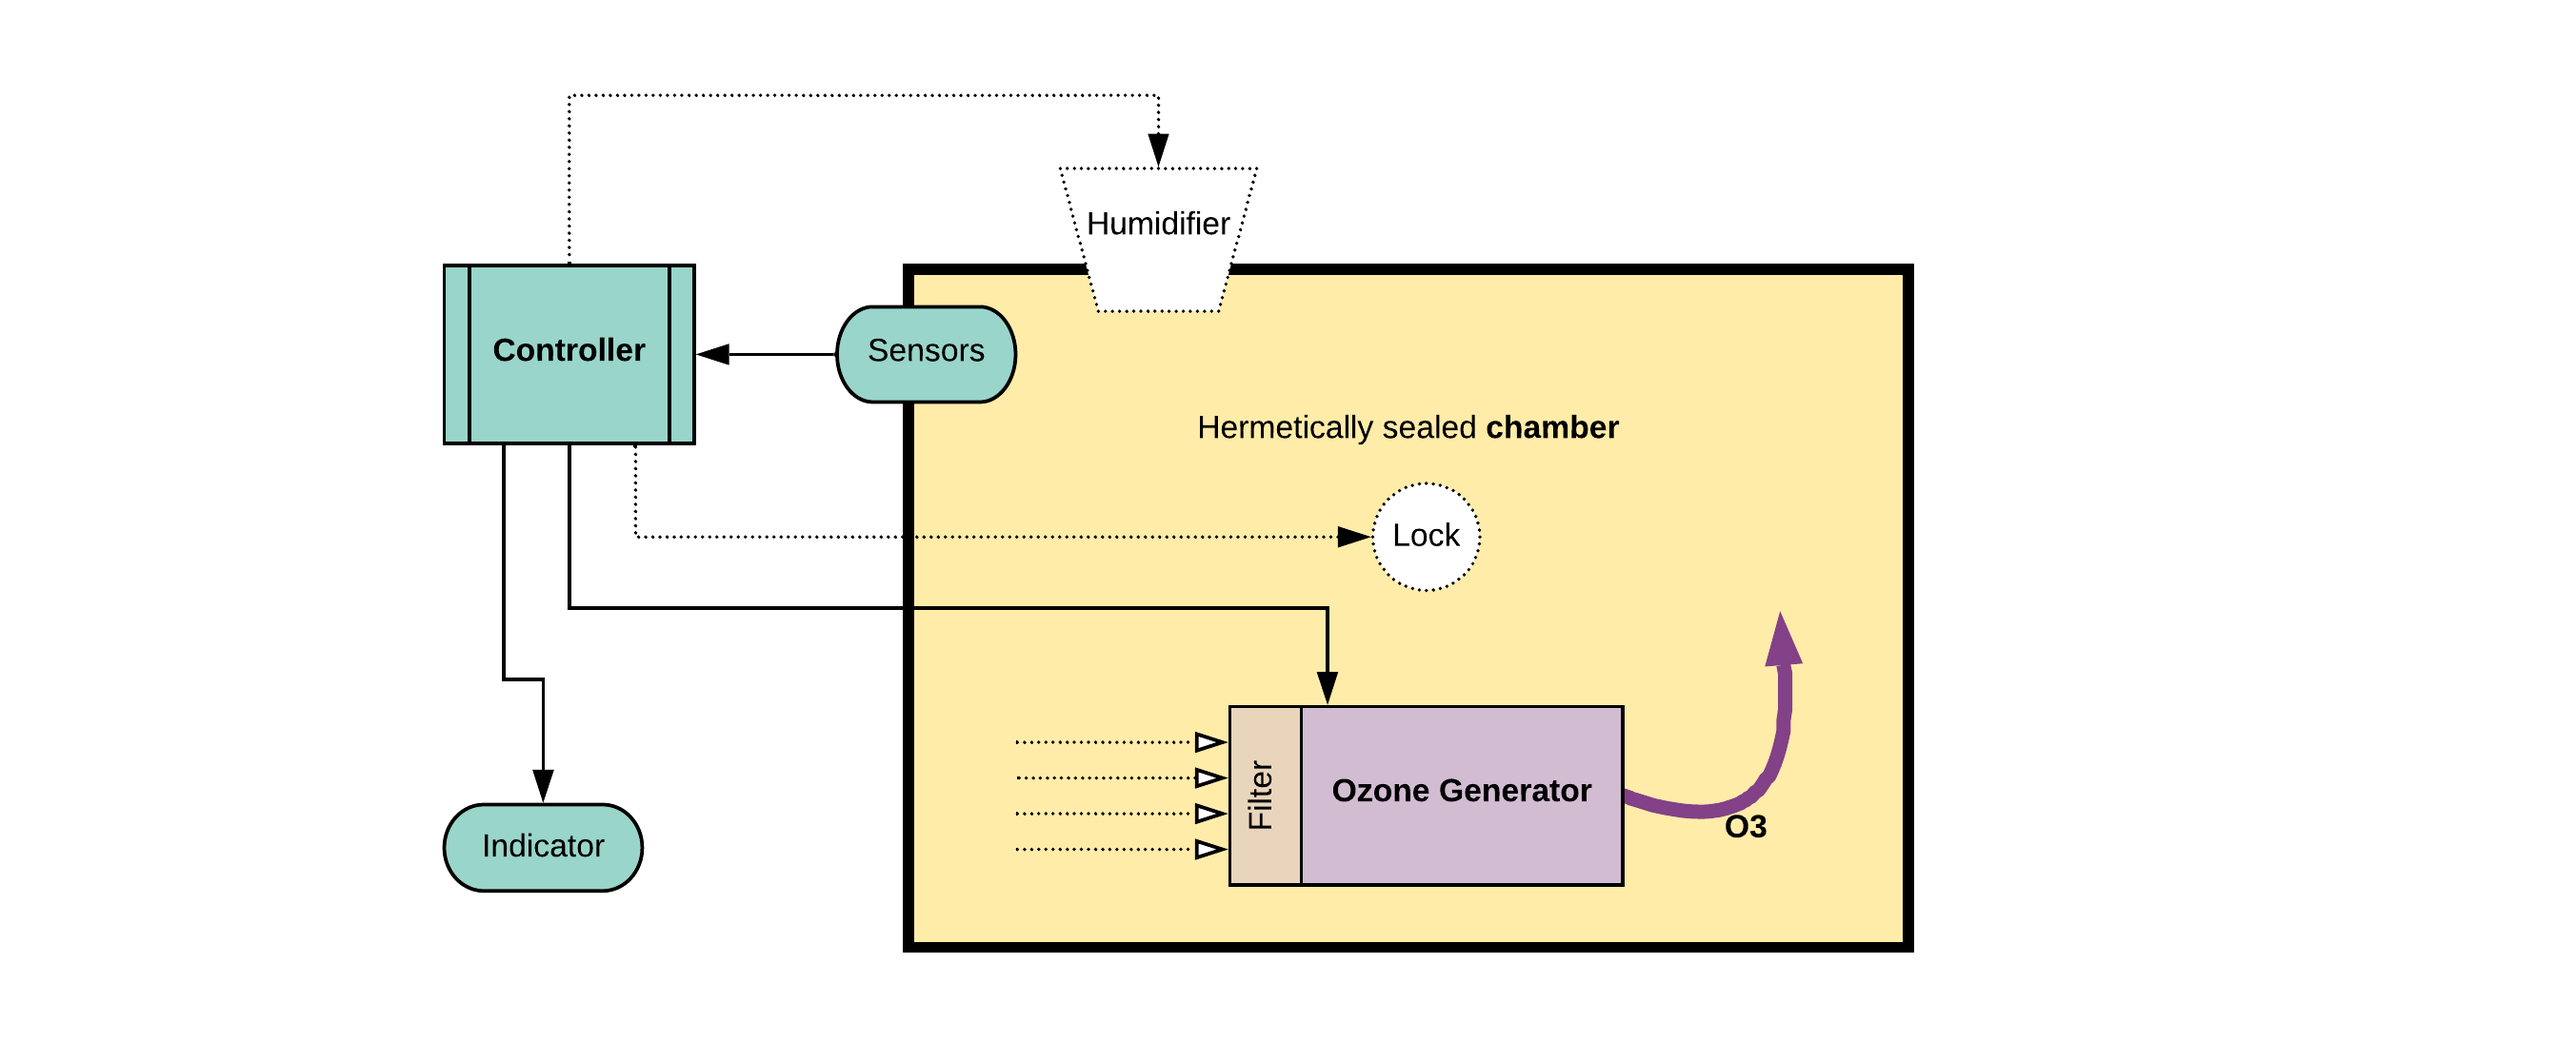
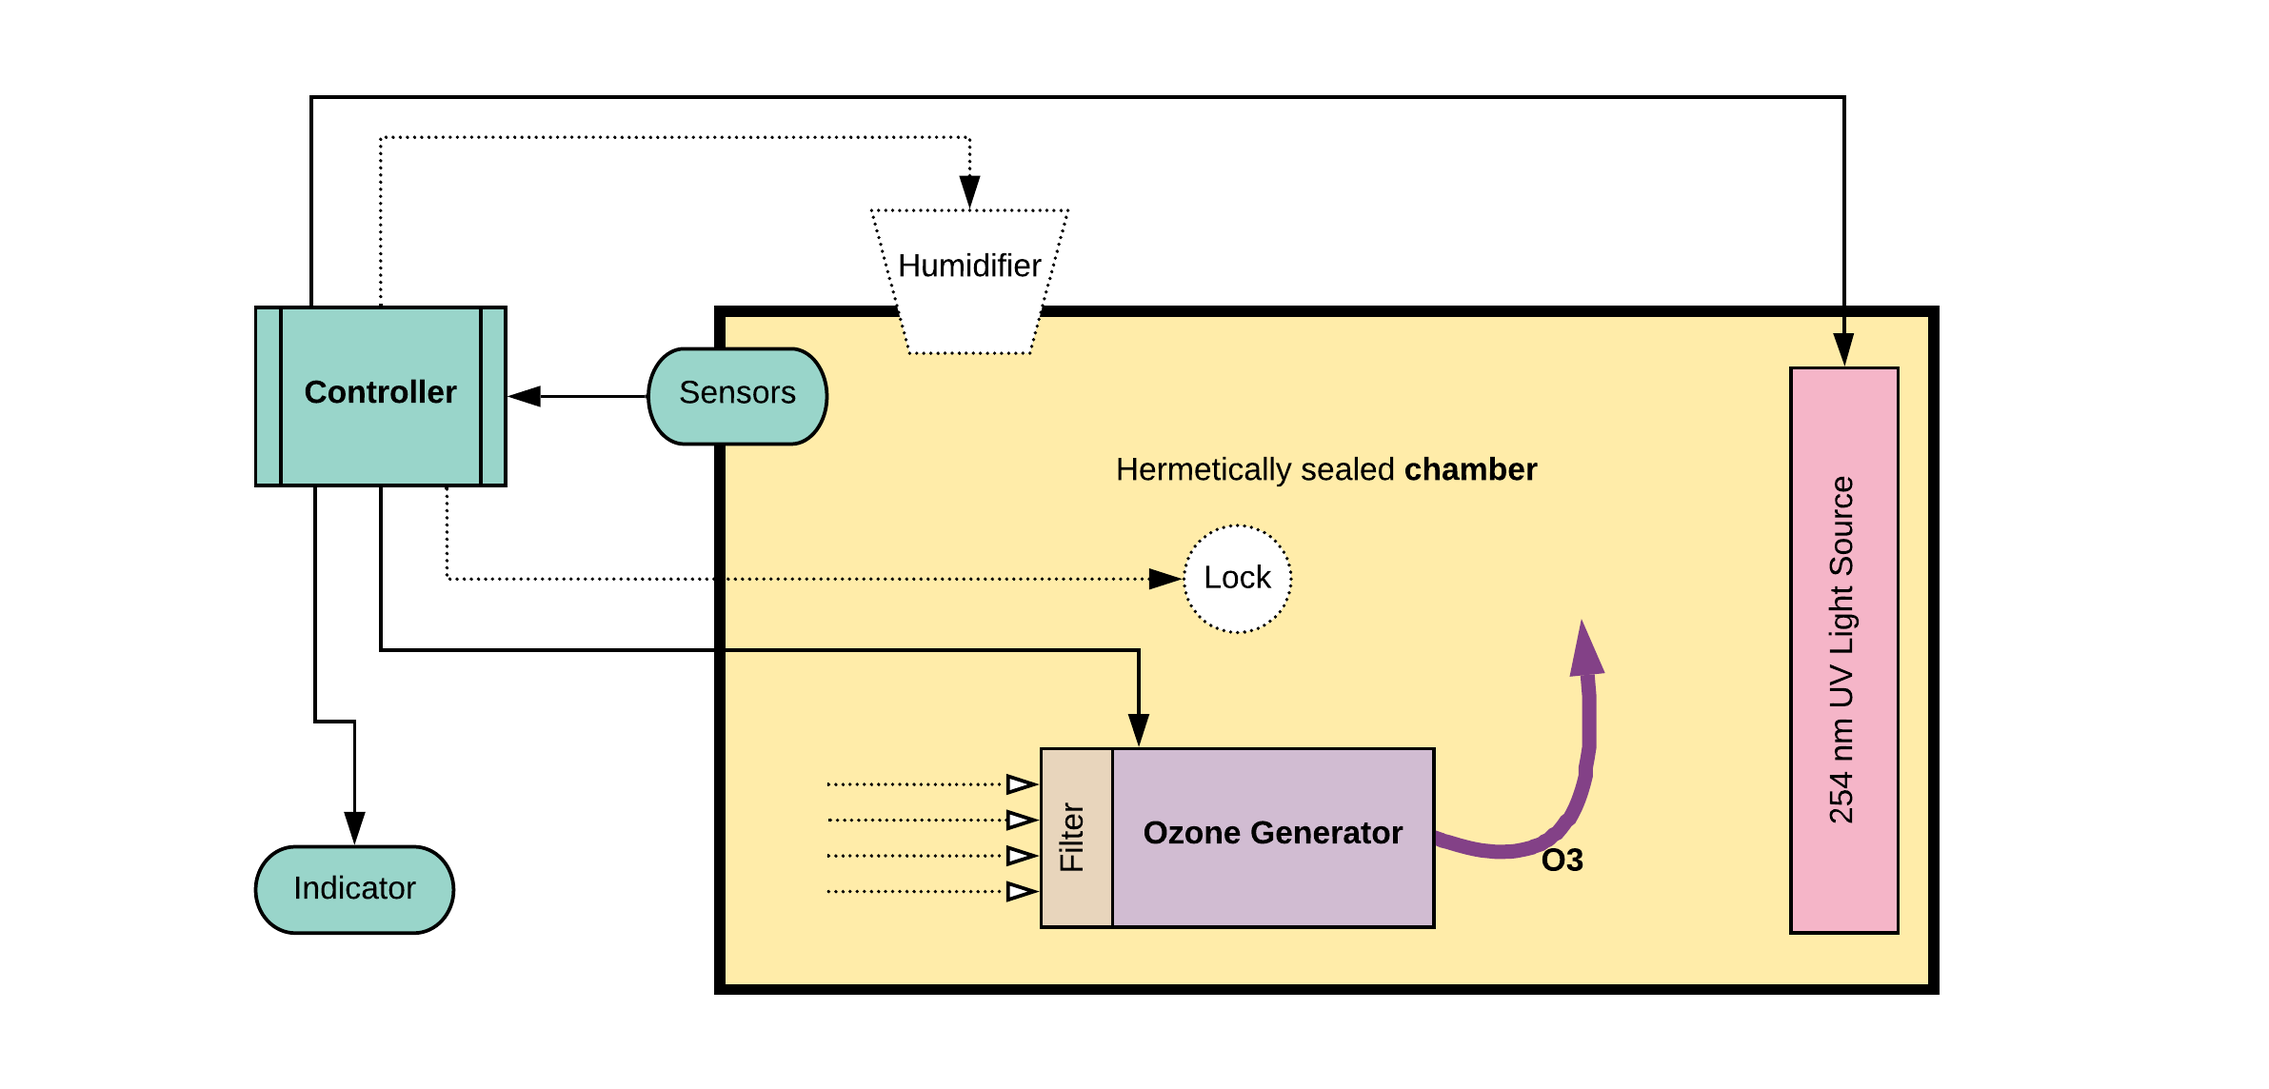
decomp contr.

diff --git a/README.md b/README.md
@@ -59,13 +59,15 @@ The standard program adopted involves increasing the ozone level over a period o
 
 ## System block diagram
 
+:warning: **Note**: this design is only recommended in emergency situations, where sufficient ventilation of the room can be provided!
+
 The whole system can be either completely closed, or partially open, where the ionized air can travel through the chamber into a catalyst. For the sake of simplicity we recommend building the closed system with the <u>generator inside the sterilization chamber</u>.
 
 Either way the sterilizer system consists of four separate modules that can be <u>bought or built</u>:
 
 * The **generator** is turning atmospheric oxygen into ozone enriched air.
 * The ozone enriched air is pumped into a sealed **chamber**. 
-* The **decomposer** that helps to break down ozone to oxygen. *( optional )*
+* The **decomposer** that helps to break down ozone to oxygen.
 * The **controller** is regulating the sterilization process.
 
 #### Open system
@@ -73,8 +75,6 @@ Either way the sterilizer system consists of four separate modules that can be <
 <img src="doc/blocks.png" style="zoom: 33%;" />
 
 #### Closed system
-
-:warning: **Note**: this design is only recommended in emergency situations, where sufficient ventilation of the room can be provided!
 
 ![](doc/closed_block.png)
 
@@ -100,7 +100,13 @@ A coronal discharge method based generator consists of:
 
 ### [Decomposer](doc/catalizator.md)
 
-Ozone can be reduced to oxygen **thermally** or **catalytically**:
+Ozone can be reduced to oxygen **thermally** or **catalytically** or **by radiation**. 
+
+*In case of a closed system:*
+
+* The chamber has to hold light sources at **254 nm** wavelength with sufficient power to disrupt the instable bonds in ozone molecules.
+
+*In case of an open system:*
 
 * The ozone enriched air from the chamber has to be able to enter the decomposer.
 * In case of catalytic destruction the decomposer could be a bucket of tap water.
